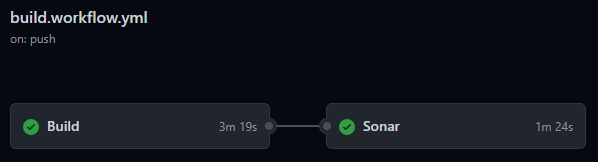
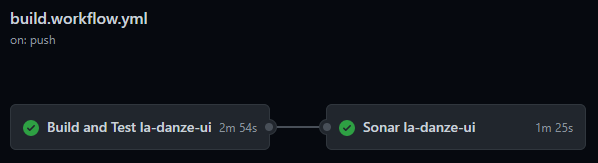
Update github actions doc

diff --git a/.github/PROJECT_ORGANIZATION.md b/.github/PROJECT_ORGANIZATION.md
@@ -53,13 +53,13 @@ All commands below must be launched from root of project (See [package.json](pac
 ## Github Actions
 
 There are 2 workflows:
-* [`build.workflow.yml`](workflows/build.workflow.yml) - launched on every push, expect for tags, .md files excluded (See [pipeline](https://github.com/pchmn/la-danze-ui/actions?query=workflow%3A%22Build+and+Test%22))
-  * **Build la-danze-ui**: build library and test it with coverage
+* [`build.workflow.yml`](workflows/build.workflow.yml) - launched on every push, expect for tags, .md files excluded (See [pipeline](https://github.com/pchmn/la-danze-ui/actions?query=workflow%3ABuild))
+  * **Build and Test la-danze-ui**: build library and test it with coverage
   * **Sonar la-danze-ui**: run sonar cloud on library
 
 ![build.workflow](build.workflow.png)
 
 * [`publish.workflow.yml`](workflows/publish.workflow.yml) - launched only on tags push (See [pipeline](https://github.com/pchmn/la-danze-ui/actions?query=workflow%3APublish+))
-  * **Publish la-danze-ui**: build library and publish it to npm
+  * **Publish la-danze-ui**: build library, test it and publish it to npm
 
 ![publish.workflow](publish.workflow.png)
